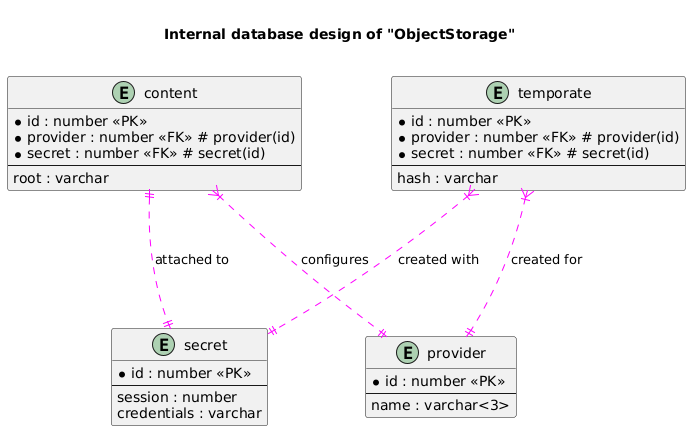
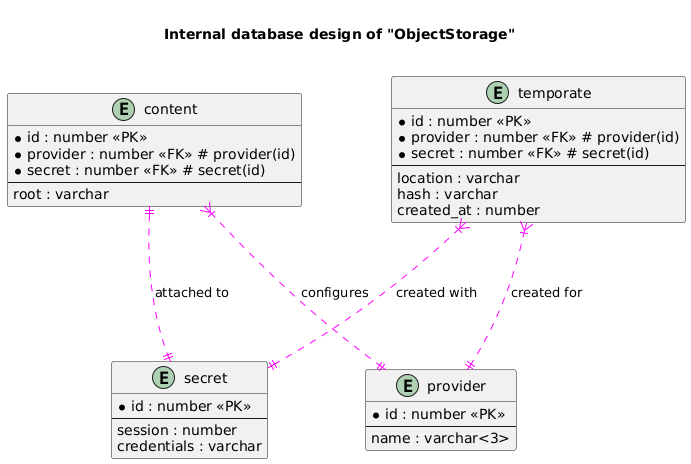
fix: updated diagrams (#29)

diff --git a/docs/detailed-design.md b/docs/detailed-design.md
@@ -82,11 +82,6 @@ group /v1/content/apply POST
 
 client -> apiserver: apply content configuration
 
-activate externalservice
-apiserver -> externalservice: request credentials validation
-externalservice --> apiserver : validation result
-deactivate externalservice
-
 activate localstorage
 apiserver -> localstorage: apply provided user configuration
 localstorage -> apiserver: user configuration update result
@@ -105,9 +100,9 @@ deactivate localstorage
 
 end group
 
-group /v1/content/upload POST
+group /v1/content/object/upload POST
 
-client -> apiserver: upload object
+client -> apiserver: upload content object
 
 activate temporatestorage
 apiserver ->> temporatestorage: schedule object upload
@@ -115,33 +110,41 @@ deactivate temporatestorage
 
 end group
 
-group /v1/content/download POST
+group /v1/content/object/download POST
 
-client -> apiserver: download selected object
+client -> apiserver: download selected content object
 
-alt if the object is still not processed
+alt if the content object is still not processed
 
 activate temporatestorage
-apiserver -> temporatestorage: request object
-temporatestorage --> apiserver : retrieved object
+apiserver -> temporatestorage: request content object
+temporatestorage --> apiserver : retrieved content object
 deactivate temporatestorage
 
 else
 
 activate externalservice
-apiserver -> externalservice: request object
-externalservice --> apiserver : retrieved object
+apiserver -> externalservice: request content object
+externalservice --> apiserver : retrieved content object
 deactivate externalservice
 
 end
 
-apiserver --> client: downloaded object
+apiserver --> client: downloaded content object
 
 end group
 
-group /v1/content/clean DELETE
+group /v1/content/backup/download POST
 
-client -> apiserver: clean selected content
+client -> apiserver: download selected content backup
+
+apiserver --> client: downloaded content backup
+
+end group
+
+group /v1/content/object/clean DELETE
+
+client -> apiserver: clean selected content object
 
 opt if any object is still not processed
 
@@ -180,6 +183,19 @@ deactivate externalservice
 end group
 
 end box
+
+group /v1/secrets/acquire POST
+
+client -> apiserver: create jwt token
+
+activate externalservice
+apiserver -> externalservice: verify given secrets
+externalservice -> apiserver: result of verification
+deactivate externalservice
+
+apiserver --> client: created jwt token
+
+end group
 
 group /v1/health GET
 client -> apiserver: retrieve health info

diff --git a/docs/internal-database-design.md b/docs/internal-database-design.md
@@ -33,7 +33,9 @@ entity "temporate" {
     *provider : number <<FK>> # provider(id)
     *secret : number <<FK>> # secret(id)
     --
+    location : varchar
     hash : varchar
+    created_at : number
 }
 
 content ||...|| secret #magenta : attached to
